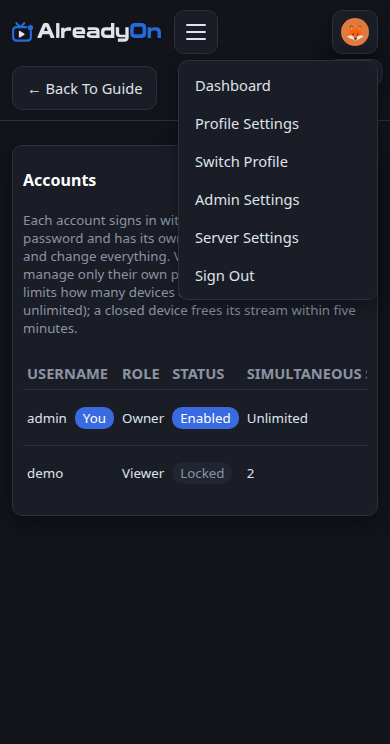
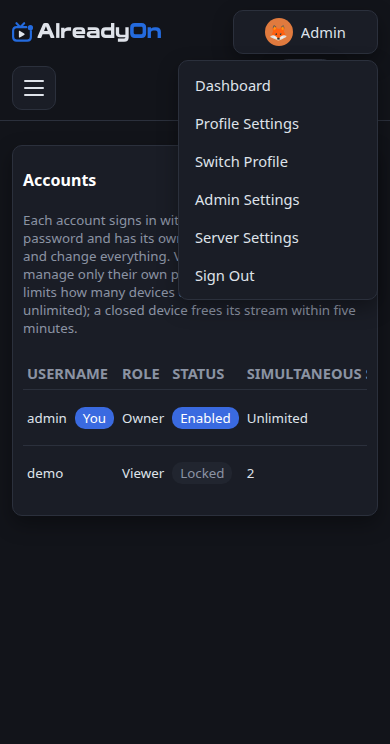
Keep named profile control on one line at compact widths

Changed region(s): [[0.0615, 0.0927, 0.3692, 0.1546], [0.6769, 0.0, 0.9538, 0.0618], [0.4615, 0.0309, 0.5231, 0.0618]]

diff --git a/web/src/pages/AdminPage.css b/web/src/pages/AdminPage.css
@@ -193,22 +193,32 @@
   }
 
   .admin-topbar-inner {
-    position: relative;
-    min-height: 44px;
-    padding-right: 56px;
+    /* Keep the named profile control on the brand row; navigation occupies
+       the following row rather than overlapping either header element. */
+    display: grid;
+    grid-template-columns: minmax(0, 1fr) auto;
+    gap: 12px;
   }
 
   .admin-topbar-inner > .profile-menu {
-    position: absolute;
-    top: 0;
-    right: 0;
+    grid-column: 2;
+    grid-row: 1;
+    max-width: min(180px, 45vw);
     margin-left: 0;
   }
 
-  /* Reserve one touch target beside the brand; the accessible name stays on
-     the button while the visible name belongs only in wider headers. */
+  .admin-topbar-inner > .brand-link {
+    min-width: 0;
+  }
+
+  .admin-topbar-inner .profile-menu-trigger {
+    width: 100%;
+    min-width: 0;
+    box-sizing: border-box;
+  }
+
   .admin-topbar-inner .profile-menu-trigger-name {
-    display: none;
+    min-width: 0;
   }
 
   .admin-content {

diff --git a/docs/review-screenshots/README.md b/docs/review-screenshots/README.md
@@ -1,6 +1,6 @@
 # Settings layout review
 
-These captures show the settings headers both with the profile menu closed (`*-closed.png`) and open. Mobile captures use a 390px viewport; the desktop Server Settings pair uses 1280px. Compact settings headers show the avatar alone, while wider headers retain the profile name beside it.
+These captures show the settings headers both with the profile menu closed (`*-closed.png`) and open. Mobile captures use a 390px viewport; the desktop Server Settings pair uses 1280px. Every settings header keeps the profile avatar and name together on one line; long names truncate rather than wrap.
 
 Accounts and Profiles keep their table text intact inside keyboard-accessible horizontal scroll regions. Scroll these regions to reach the remaining columns and actions. The page itself stays within the viewport.
 

diff --git a/docs/release-notes/2026-10-13-mobile-settings-profile-menu.md b/docs/release-notes/2026-10-13-mobile-settings-profile-menu.md
@@ -1,5 +1,5 @@
 ## Bug fixes
 
 - Keep settings screens aligned on narrow displays when opening the profile menu.
-- Show only the profile avatar in settings headers at 700px and below; wider headers retain the clickable name beside it.
+- Keep the profile avatar and clickable name together on one line at every width; long names truncate rather than wrap.
 - Keep Accounts and Profiles table text readable on phones with keyboard-accessible horizontal scrolling inside each table region, without widening the page.
